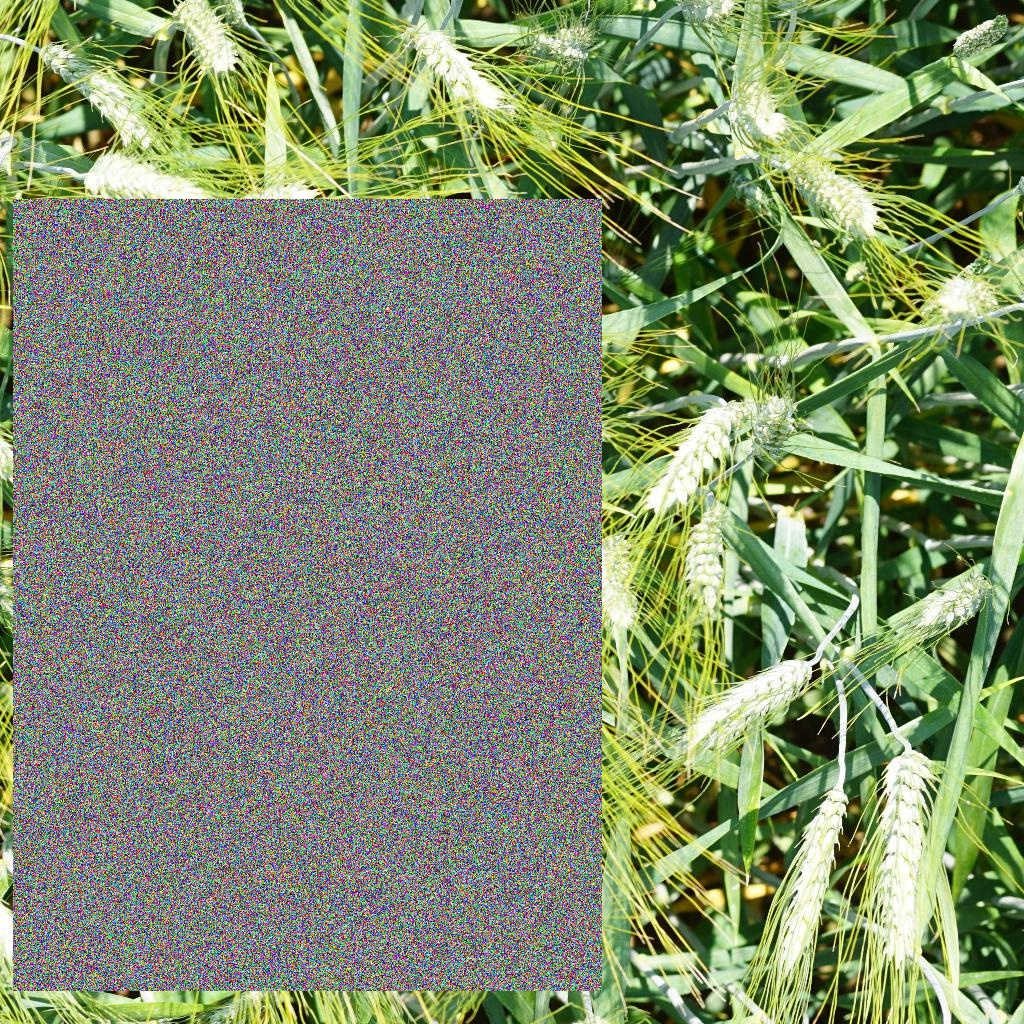
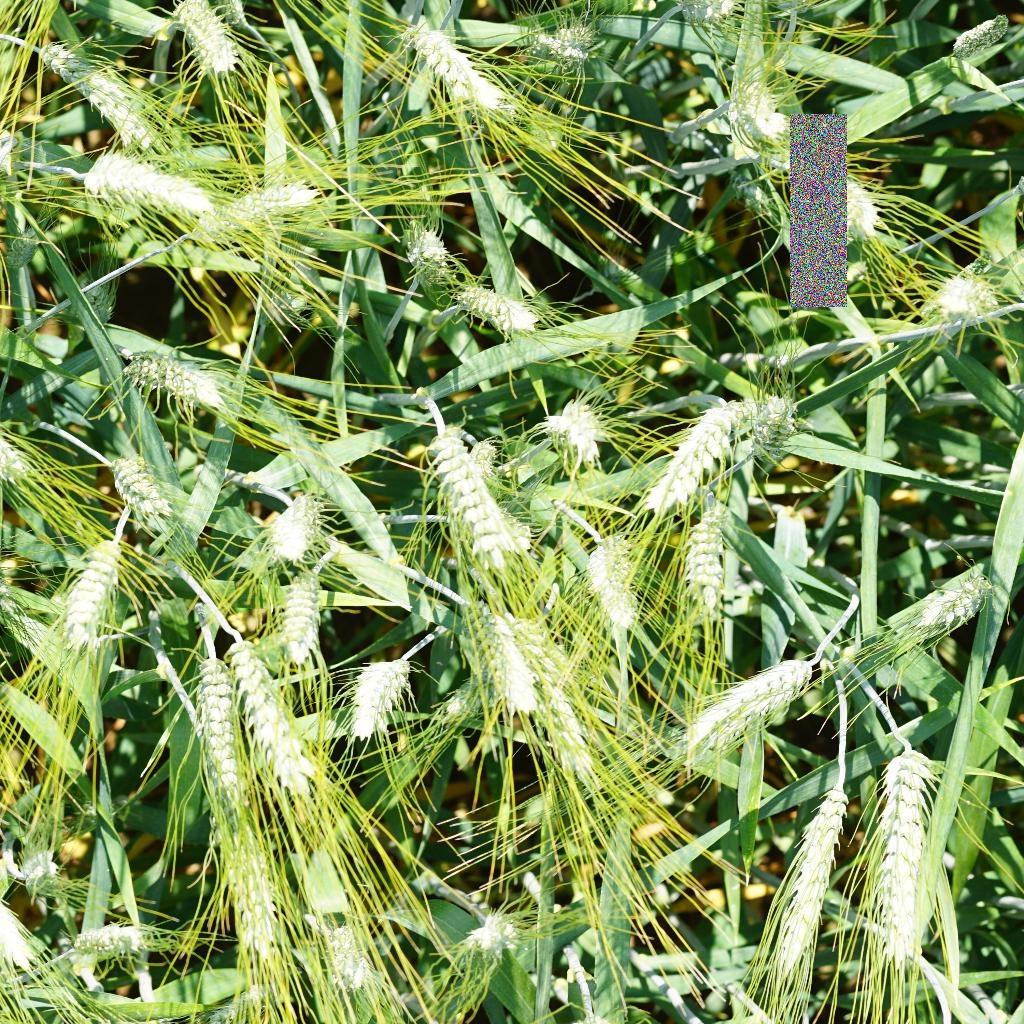
more expressive type casts

diff --git a/src/discolight/augmentations/augmentation/types.py b/src/discolight/augmentations/augmentation/types.py
@@ -14,6 +14,99 @@ def augmentation_list(*args, **kwargs):
     raise ValueError("This typecast must be bound before validation")
 
 
+class BoundedNumber:
+
+    """A type cast for a float or int within a certain range."""
+
+    def __init__(self, number_type, minimum, maximum):
+        """Construct a BoundedFloat type cast."""
+        self.number_type = number_type
+        self.minimum = minimum
+        self.maximum = maximum
+
+        self.__name__ = "{} in range [{}, {}]".format(number_type.__name__,
+                                                      minimum, maximum)
+
+    def __call__(self, val):
+        """Cast a value to a float within range."""
+        val = self.number_type(val)
+
+        if val < self.minimum or val > self.maximum:
+            raise ValueError("{} not in range [{}, {}]".format(
+                val, self.minimum, self.maximum))
+
+        return val
+
+
+class NumericalRange:
+
+    """A type cast for a numerical range expressed as a tuple.
+
+    Instances of this class can be called as a type cast numerical
+    ranges of the forms:
+
+    (min, max)
+    [min, max]
+
+    into the 2-tuple (min, max). An exception will be raised if
+    min or max cannot be coerced to float values, or if min > max.
+
+    Additionally, an absolute floor and ceiling for min and max
+    can be set in the constructor when instantiating this class.
+    """
+
+    def __init__(self, minimum=None, maximum=None):
+        """Construct a NumericalRange type cast.
+
+        If minimum or maximum are not None, an exception will be
+        raised during casting if min or max in the given numberical
+        range (min, max) are not in the interval [minimum, maximum].
+        """
+        self.minimum = minimum
+        self.maximum = maximum
+
+        range_min_str = "-Inf" if minimum is None else str(minimum)
+        range_max_str = "Inf" if maximum is None else str(maximum)
+        self.__name__ = "range in [{}, {}]".format(range_min_str,
+                                                   range_max_str)
+
+    def __call__(self, numerical_range):
+        """Cast a value to a numerical range tuple."""
+        try:
+            numerical_range_tuple = tuple(numerical_range)
+        except TypeError:
+            raise ValueError("Cannot convert {} to 2-tuple".format(
+                repr(numerical_range)))
+
+        if len(numerical_range_tuple) != 2:
+            raise ValueError("Cannot convert {} to 2-tuple".format(
+                repr(numerical_range)))
+
+        floor, ceil = numerical_range_tuple
+
+        floor = float(floor)
+        ceil = float(ceil)
+
+        if floor > ceil:
+            raise ValueError(
+                "Minimum of range ({}, {}) is greater than maximum".format(
+                    floor, ceil))
+
+        if self.minimum is not None and (floor < self.minimum
+                                         or ceil < self.minimum):
+            raise ValueError(
+                "Minimum of range ({}, {}) is less than {}".format(
+                    floor, ceil, self.minimum))
+
+        if self.maximum is not None and (floor > self.maximum
+                                         or ceil > self.maximum):
+            raise ValueError(
+                "Maximum of range ({}, {}) is greater than {}".format(
+                    floor, ceil, self.maximum))
+
+        return (floor, ceil)
+
+
 class Augmentation(ABC):
 
     """An image augmentation."""

diff --git a/src/discolight/augmentations/randomeraser.py b/src/discolight/augmentations/randomeraser.py
@@ -1,7 +1,7 @@
 """An augmentation that erases random parts of an image."""
 import random
 from discolight.params.params import Params
-from .augmentation.types import ColorAugmentation
+from .augmentation.types import ColorAugmentation, NumericalRange
 from .decorators.accepts_probs import accepts_probs
 
 
@@ -13,7 +13,7 @@ class RandomEraser(ColorAugmentation):
     The erased area is replaced with random noise.
     """
 
-    def __init__(self, x_min, y_min, x_max, y_max):
+    def __init__(self, x_range, y_range):
         """Construct a RandomEraser augmentation.
 
         You should probably use the augmentation factory or Discolight
@@ -21,34 +21,38 @@ class RandomEraser(ColorAugmentation):
         this constructor directly if you know what you are doing.
         """
         super().__init__()
-        self.x_min = x_min
-        self.y_min = y_min
-        self.x_max = x_max
-        self.y_max = y_max
+        self.x_range = x_range
+        self.y_range = y_range
 
     @staticmethod
     def params():
         """Return a Params object describing constructor parameters."""
-        return Params().add("x_min", "", float,
-                            0).add("y_min", "", float,
-                                   0).add("x_max", "", float,
-                                          -1).add("y_max", "", float, -1)
+        return Params().add(
+            "x_range", "normalized x range for coordinates that may be erased",
+            NumericalRange(0.0, 1.0), (0.0, 1.0)).add(
+                "y_range",
+                "normalized y range for coordinates that may be erased",
+                NumericalRange(0.0, 1.0), (0.0, 1.0))
 
     def augment_img(self, img, _bboxes):
         """Augment an image."""
         width, height, _ = img.shape[1], img.shape[0], img.shape[2]
-        self.x_max = self.x_max if self.x_max >= 0 else width
-        self.y_max = self.y_max if self.y_max >= 0 else height
+
+        x_floor = width * self.x_range[0]
+        x_ceil = width * self.x_range[1]
+
+        y_floor = height * self.y_range[0]
+        y_ceil = height * self.y_range[1]
 
         x_min, x_max = 1, 0  # force invalid coordinates
         while x_min >= x_max:
-            x_min = int(random.uniform(self.x_min, self.x_max))
-            x_max = int(random.uniform(self.x_min, self.x_max))
+            x_min = int(random.uniform(x_floor, x_ceil))
+            x_max = int(random.uniform(x_floor, x_ceil))
 
         y_min, y_max = 1, 0  # force invalid coordinates
         while y_min >= y_max:
-            y_min = int(random.uniform(self.y_min, self.y_max))
-            y_max = int(random.uniform(self.y_min, self.y_max))
+            y_min = int(random.uniform(y_floor, y_ceil))
+            y_max = int(random.uniform(y_floor, y_ceil))
 
         # here must be int, because if not img[eraser_width etc]
         # does not take in float or decimals.

diff --git a/src/discolight/augmentations/saltandpeppernoise.py b/src/discolight/augmentations/saltandpeppernoise.py
@@ -1,10 +1,19 @@
 """An augmentation that adds random noise to an image."""
 import random
 from math import floor
+from enum import Enum
 import numpy as np
 from discolight.params.params import Params
-from .augmentation.types import ColorAugmentation
+from .augmentation.types import ColorAugmentation, BoundedNumber
 from .decorators.accepts_probs import accepts_probs
+
+
+class NoiseType(Enum):
+
+    """The noise type to be applied in the SaltAndPepperNoise augmentation."""
+
+    RGB = "RGB"
+    SnP = "SnP"
 
 
 @accepts_probs
@@ -29,20 +38,14 @@ class SaltAndPepperNoise(ColorAugmentation):
     @staticmethod
     def params():
         """Return a Params object describing constructor parameters."""
-        return Params().add("replace_probs", "", float, 0.1).add(
-            "pepper", "The color of the pepper", int,
-            0).add("salt", "The color of the salt", int,
-                   255).add("noise_type", "The type of noise (RGB or SnP)",
-                            str, "RGB").ensure(
-                                lambda params: params["noise_type"] == "RGB" or
-                                params["noise_type"] == "SnP",
-                                "noise_type must be RGB or SnP").ensure(
-                                    lambda params: params[
-                                        "salt"] >= 0 or params["salt"] <= 255,
-                                    "salt must be between 0 and 255").ensure(
-                                        lambda params: params["pepper"] >= 0 or
-                                        params["pepper"] <= 255,
-                                        "pepper must be between 0 and 255")
+        return Params().add("replace_probs", "", float,
+                            0.1).add("pepper", "The color of the pepper",
+                                     BoundedNumber(int, 0, 255),
+                                     0).add("salt", "The color of the salt",
+                                            BoundedNumber(int, 0, 255),
+                                            255).add("noise_type",
+                                                     "The type of noise",
+                                                     NoiseType, "RGB")
 
     def augment_img(self, img, _bboxes):
         """Augment an image."""

diff --git a/src/discolight/augmentations/randomrotate.py b/src/discolight/augmentations/randomrotate.py
@@ -1,7 +1,7 @@
 """An augmentation to randomly rotate an image."""
 import random
 from discolight.params.params import Params
-from .augmentation.types import Augmentation
+from .augmentation.types import Augmentation, NumericalRange
 from .rotate import Rotate
 from .decorators.accepts_probs import accepts_probs
 
@@ -11,7 +11,7 @@ class RandomRotate(Augmentation):
 
     """Randomly rotate the given image."""
 
-    def __init__(self, min_angle, max_angle):
+    def __init__(self, angle_range):
         """Construct a RandomRotate augmentation.
 
         You should probably use the augmentation factory or Discolight
@@ -20,19 +20,18 @@ class RandomRotate(Augmentation):
         """
         super().__init__()
 
-        self.min_angle = min_angle
-        self.max_angle = max_angle
+        self.angle_range = angle_range
 
     @staticmethod
     def params():
         """Return a Params object describing constructor parameters."""
-        return Params().add("min_angle", "", float, -10).add(
-            "max_angle", "", float, 10).ensure(
-                lambda params: params["min_angle"] < params["max_angle"],
-                "min_angle must be less than max_angle")
+        return Params().add(
+            "angle_range",
+            "The range from which the random angle will be chosen",
+            NumericalRange(-360.0, 360.0), (-10.0, 10.0))
 
     def augment(self, img, bboxes):
         """Augment an image."""
-        angle = random.uniform(self.min_angle, self.max_angle)
+        angle = random.uniform(*self.angle_range)
 
         return Rotate(angle=angle).augment(img, bboxes)

diff --git a/src/discolight/augmentations/translate.py b/src/discolight/augmentations/translate.py
@@ -2,7 +2,7 @@
 import numpy as np
 from discolight.params.params import Params
 from .bbox_utilities import bbox_utilities
-from .augmentation.types import Augmentation
+from .augmentation.types import Augmentation, BoundedNumber
 from .decorators.accepts_probs import accepts_probs
 
 
@@ -29,14 +29,9 @@ class Translate(Augmentation):
     @staticmethod
     def params():
         """Return a Params object describing constructor parameters."""
-        return Params().add("translate_x", "", float,
-                            0.2).add("translate_y", "", float, 0.2).ensure(
-                                lambda params: params["translate_x"] > 0 and
-                                params["translate_x"] < 1,
-                                "translate_x must be between 0 and 1").ensure(
-                                    lambda params: params["translate_y"] > 0
-                                    and params["translate_y"] < 1,
-                                    "translate_y must be between 0 and 1")
+        return Params().add("translate_x", "", BoundedNumber(float, 0.0, 1.0),
+                            0.2).add("translate_y", "",
+                                     BoundedNumber(float, 0.0, 1.0), 0.2)
 
     def augment(self, img, bboxes):
         """Augment an image."""

diff --git a/src/discolight/doc.py b/src/discolight/doc.py
@@ -5,6 +5,7 @@ import os
 import re
 import shutil
 import argparse
+from enum import Enum
 from tqdm import tqdm
 from jinja2 import Environment, BaseLoader
 from .augmentations import factory as augmentations_factory
@@ -198,6 +199,22 @@ image_loader_fy = image_loader_factory.make_image_loader_factory()
 image_writer_fy = image_writer_factory.make_image_writer_factory()
 
 
+def hr_type_name(typ):
+    """Get a human-readable representation of a type."""
+
+    try:
+        if issubclass(typ, Enum):
+            return " | ".join([v.value for v in typ])
+    except TypeError:
+        pass
+
+    if hasattr(typ, "__name__"):
+
+        return typ.__name__
+
+    return str(typ)
+
+
 def make_doc_object(obj):
     """Generate a description of an object for use in a template."""
     doc_object = {}
@@ -215,7 +232,7 @@ def make_doc_object(obj):
         param_doc_object = {
             "name": param["name"],
             "description": param["description"],
-            "type": param["data_type"].__name__,
+            "type": hr_type_name(param["data_type"]),
             "default": str(param["default"]),
             "required": param["required"],
             "ensures": []

diff --git a/src/discolight/augmentations/randomhsv.py b/src/discolight/augmentations/randomhsv.py
@@ -2,7 +2,7 @@
 import random
 import numpy as np
 from discolight.params.params import Params
-from .augmentation.types import ColorAugmentation
+from .augmentation.types import ColorAugmentation, NumericalRange
 from .decorators.accepts_probs import accepts_probs
 
 
@@ -27,10 +27,9 @@ class RandomHSV(ColorAugmentation):
     @staticmethod
     def params():
         """Return a Params object describing constructor parameters."""
-        return Params().add("hue", "", tuple,
-                            (0, 0)).add("saturation", "", tuple,
-                                        (0, 0)).add("brightness", "", tuple,
-                                                    (0, 0))
+        return Params().add("hue", "", NumericalRange(), (0.0, 0.0)).add(
+            "saturation", "", NumericalRange(),
+            (0.0, 0.0)).add("brightness", "", NumericalRange(), (0.0, 0.0))
 
     def augment_img(self, img, _bboxes):
         """Augment an image."""

diff --git a/src/discolight/augmentations/decorators/accepts_probs.py b/src/discolight/augmentations/decorators/accepts_probs.py
@@ -1,6 +1,6 @@
 """Decorators for augmentations."""
 import random
-from ..augmentation.types import Augmentation
+from ..augmentation.types import Augmentation, BoundedNumber
 
 
 # yapf: disable
@@ -27,9 +27,7 @@ def accepts_probs(augmentation):
             return augmentation.params().add(
                 "probs",
                 "The probability that this augmentation will be applied",
-                float, 1.0).ensure(
-                    lambda params: params["probs"] >= 0 and params["probs"] <=
-                    1, "probs must be between 0 and 1")
+                BoundedNumber(float, 0.0, 1.0), 1.0)
 
         def augment(self, img, bboxes):
 
